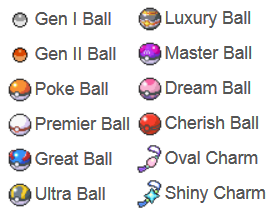
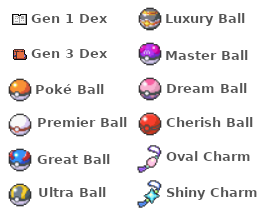
Replace Gen 1 and Gen 2 ball flairs with dex images

diff --git a/api/services/Flairs.js b/api/services/Flairs.js
@@ -63,38 +63,57 @@ exports.hasEventFlair = function(user) {
   return !!flairClasses.match(eventFlairRegExp);
 };
 
-exports.formattedName = function(name) {
-  if (!name) {
+exports.formattedName = function(name, subreddit) {
+  const flairNames = {
+    "pokemontrades": {
+      "default" : "Gen 1 Dex",
+      "gen2" : "Gen 3 Dex",
+      "pokeball" : "Poké Ball",
+      "premierball" : "Premier Ball",
+      "greatball" : "Great Ball",
+      "ultraball" : "Ultra Ball",
+      "luxuryball" : "Luxury Ball",
+      "masterball" : "Master Ball",
+      "dreamball" : "Dream Ball",
+      "cherishball" : "Cherish Ball",
+      "ovalcharm" : "Oval Charm",
+      "shinycharm" : "Shiny Charm",
+      "involvement": "Involvement",
+      "pokeball1" : "Poké Ball",
+      "premierball1" : "Premier Ball",
+      "greatball1" : "Great Ball",
+      "ultraball1" : "Ultra Ball",
+      "luxuryball1" : "Luxury Ball",
+      "masterball1" : "Master Ball",
+      "dreamball1" : "Dream Ball",
+      "cherishball1" : "Cherish Ball",
+      "ovalcharm1" : "Oval Charm",
+      "shinycharm1" : "Shiny Charm",
+      "gsball1" : "GS Ball",
+      "upgrade" : "Up-Grade",
+      "eventribbon" : "Helper Ribbon"
+    },
+    "svexchange": {
+      "lucky" : "Lucky Egg",
+      "egg" : "Egg",
+      "eevee" : "Eevee Egg",
+      "togepi" : "Togepi Egg",
+      "torchic" : "Torchic Egg",
+      "pichu" : "Pichu Egg",
+      "manaphy" : "Manaphy Egg",
+      "eggcup" : "Egg Cup",
+      "cuteribbon" : "Cute Ribbon",
+      "coolribbon" : "Cool Ribbon",
+      "beautyribbon" : "Beauty Ribbon",
+      "smartribbon" : "Smart Ribbon",
+      "toughribbon" : "Tough Ribbon",
+      "upgrade" : "Up-Grade"
+    }
+  };
+  if (!name || !subreddit) {
     return "";
   }
-  var formatted = "",
-    numberToSliceTill,
-    suffix;
-  if (name.indexOf("ball") > -1) {
-    suffix = "Ball";
-    numberToSliceTill = -4;
-  } else if (name === "gen2") {
-    suffix = "II Ball";
-    numberToSliceTill = -1;
-  } else if (name.indexOf("charm") > -1) {
-    suffix = "Charm";
-    numberToSliceTill = -5;
-  } else if (name.indexOf("ribbon") > -1) {
-    suffix = "Ribbon";
-    numberToSliceTill = -6;
-  } else if (name === "eggcup") {
-    suffix = "Cup";
-    numberToSliceTill = -3;
-  } else if (name !== "egg" && name !== "involvement") {
-    suffix = "Egg";
-  }
-  formatted += name.charAt(0).toUpperCase();
-  formatted += name.slice(1, numberToSliceTill);
-  if (suffix) {
-    suffix = " " + suffix;
-    formatted += suffix;
-  }
-  return formatted;
+  return flairNames[subreddit][name] || "";
 };
 exports.validFC = function (fc) {
   if (fc.match(/^SW-\d{4}-\d{4}-\d{4}$/)) {

diff --git a/api/controllers/FlairController.js b/api/controllers/FlairController.js
@@ -69,7 +69,7 @@ module.exports = {
       promises.push(Event.create({type: "flairTextChange", user: req.user.name,content: "Changed " + user.name + "'s flair to " + css_flair}));
 
       // Send a PM to let them know application was accepted.
-      var pmContent = 'Your application for ' + Flairs.formattedName(app.flair) + ' flair on /r/' + app.sub + ' has been approved.' + warning;
+      var pmContent = 'Your application for ' + Flairs.formattedName(app.flair, app.sub) + ' flair on /r/' + app.sub + ' has been approved.' + warning;
       promises.push(Reddit.sendPrivateMessage(refreshToken, 'FlairHQ Notification', pmContent, user.name));
       promises.push(Application.destroy({id: req.allParams().id}));
       await* promises;
